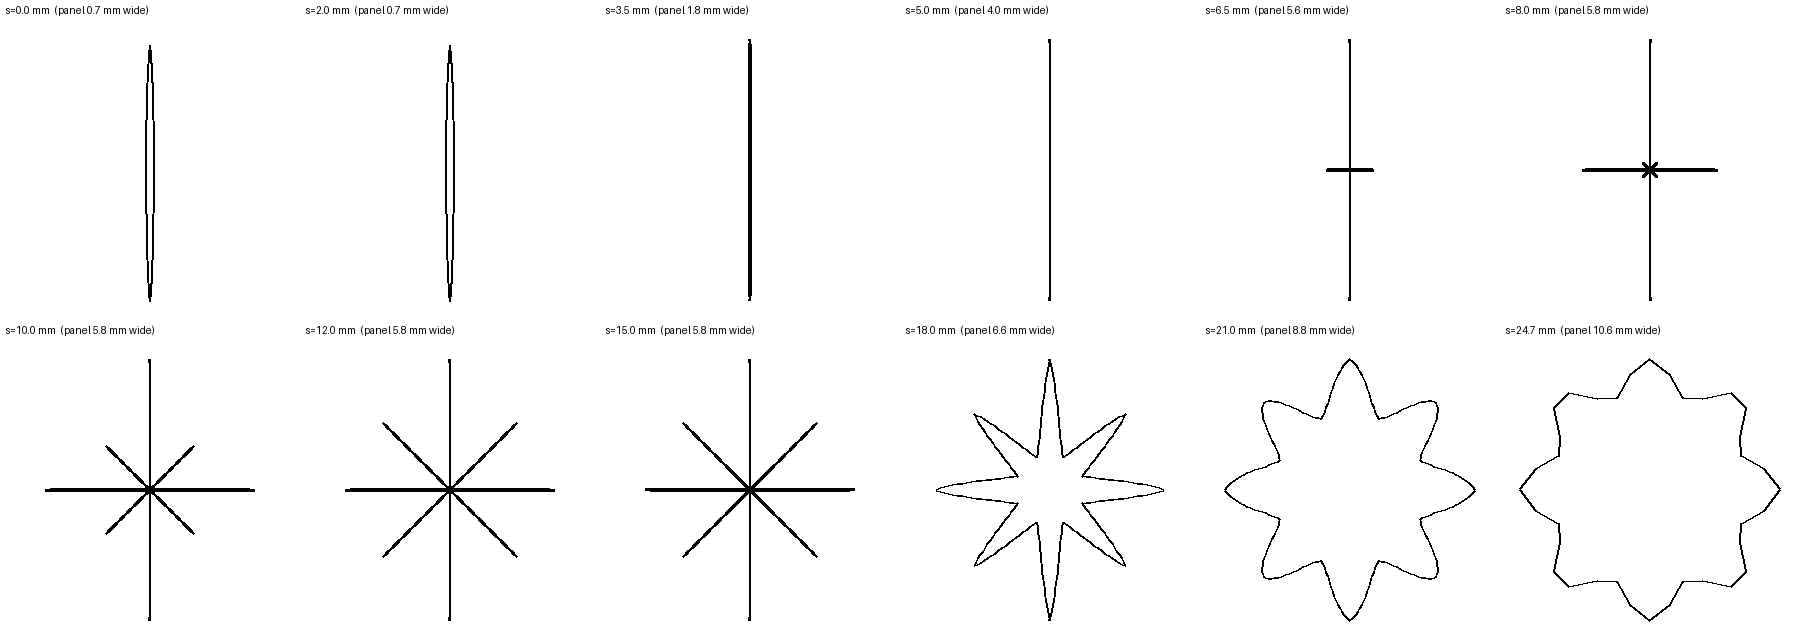
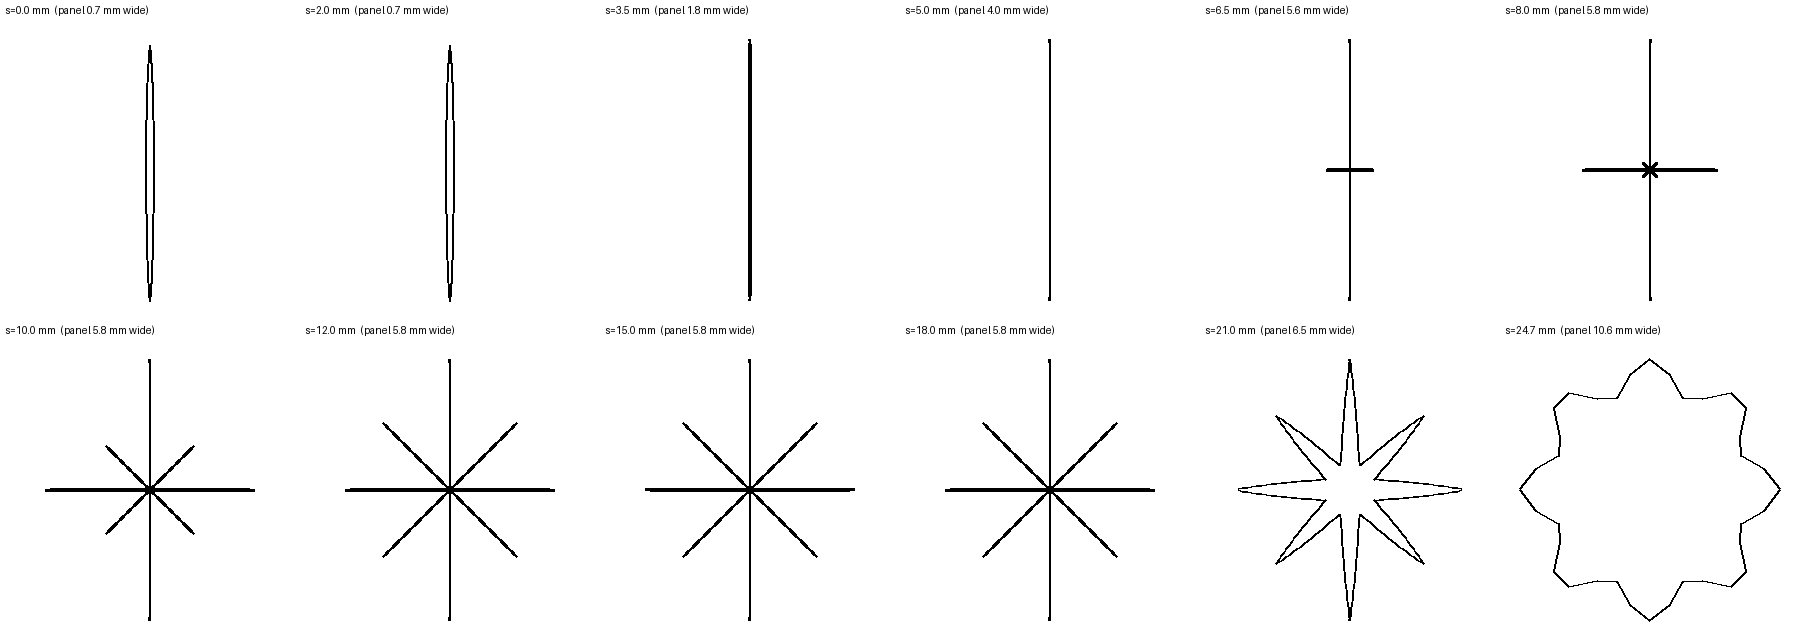
build5_passage: canal held shut along its length, opening only at the anorectal junction
The resting star now runs closed to 5 mm below the junction (ANUS_CANAL_OPENLEN) instead of
easing open over the top 40 % from ~15 mm.

Claude-Session: https://claude.ai/code/session_01QyvExx7bdNP1Gw2YSoEwWG

diff --git a/scripts/build5_passage.py b/scripts/build5_passage.py
@@ -1059,10 +1059,14 @@ def build_tube(name, ring_pts_list, exact_bot, exact_top):
 # and is collapsed at rest along its whole length (item 3): the closed slit is carried straight up for CANAL_COLL mm,
 # then the lumen is a closed STAR - an AP slit that lengthens, then lateral and diagonal arms (8 in all) growing in
 # between, the tissue between neighbouring arms being the anal columns. Walls LUMEN_HW mm from the arm's midline.
-# Over the top 40 % it eases out to the round junction ring the ampulla starts from. Every arm owns a fixed block of
+# Over its last CANAL_OPENLEN mm it opens out to the round junction ring the ampulla starts from. Every arm owns a fixed block of
 # N_SPOKE / 8 points (tip in the middle), so points never slide across an arm between rings, and point k always
 # sits near angle -pi + 2 pi k / N_SPOKE (the Open shape key can spread them round a circle).
 CANAL_COLL = float(os.environ.get("ANUS_CANAL_COLL", "2.0"))   # mm the skin's slit runs straight up
+# the canal is held shut along its whole length at rest (internal sphincter tone, puborectalis at the top) and
+# opens only at the anorectal junction, over its last CANAL_OPENLEN mm (was: the top 40 %, from ~15 mm). The atlas'
+# external sphincter ring is only ~4 mm tall (8-12 mm up), so it is not used as the limit.
+CANAL_OPENLEN = float(os.environ.get("ANUS_CANAL_OPENLEN", "5.0"))
 LUMEN_HW = 0.01                                                  # mm, half the gap between touching walls
 N_ARM = 8; SEC = N_SPOKE // N_ARM
 Lc = (J - H).length; _Lmm = Lc * 1000
@@ -1110,7 +1114,7 @@ def canal_ring(s_mm, N):
     """N_SPOKE points at s mm up the canal, then every (N_SPOKE / N)-th: the 2:1 steps keep their angles"""
     t = s_mm / _Lmm; ctr = H.lerp(J, t)
     w_ex = 1 - ss(CANAL_COLL, 3.5, s_mm)          # the skin's own slit, carried up
-    w_rd = ss(0.6 * _Lmm, _Lmm, s_mm)             # easing out to the round junction ring
+    w_rd = ss(_Lmm - CANAL_OPENLEN, _Lmm, s_mm)  # opening into the round junction ring (anorectal junction)
     st = star_2d(s_mm); pts = []
     for kk in range(N_SPOKE):
         th = -math.pi + 2 * math.pi * kk / N_SPOKE

diff --git a/HANDOFF.md b/HANDOFF.md
@@ -285,8 +285,9 @@ via gdown into `drive/` (the network policy must allow download.blender.org and 
 **Open questions for the user / possible next steps:**
 - Appendix was moved 21.9 mm to attach to the cecum >= 15 mm from the ileal entrance (not opened: dead end). The
   user may want a smaller move (e.g. `APPX_CLEAR` 12 mm) or a different attachment spot.
-- Canal: it opens from the star over the top 40 % (from ~15 mm); anatomically it could stay closed over the
-  sphincter's full height and open more sharply at the anorectal junction (offered, not done).
+- Canal (DONE later): now closed along its whole length and opens only over its last `ANUS_CANAL_OPENLEN` (5 mm)
+  into the junction ring (was: the top 40 %, from ~15 mm). Note the atlas' external sphincter ring is only ~4 mm
+  tall (8-12 mm up the canal; real one ~25-40 mm) - a possible future fix if the user wants it.
 - Lining colour at the canal mouth renders a little greyer than the rim skin (~180,141,142 vs 204,162,170); user
   hasn't asked to change it.
 - Only tract organs have lit insides; other atlas organs keep the flat backface colour.
